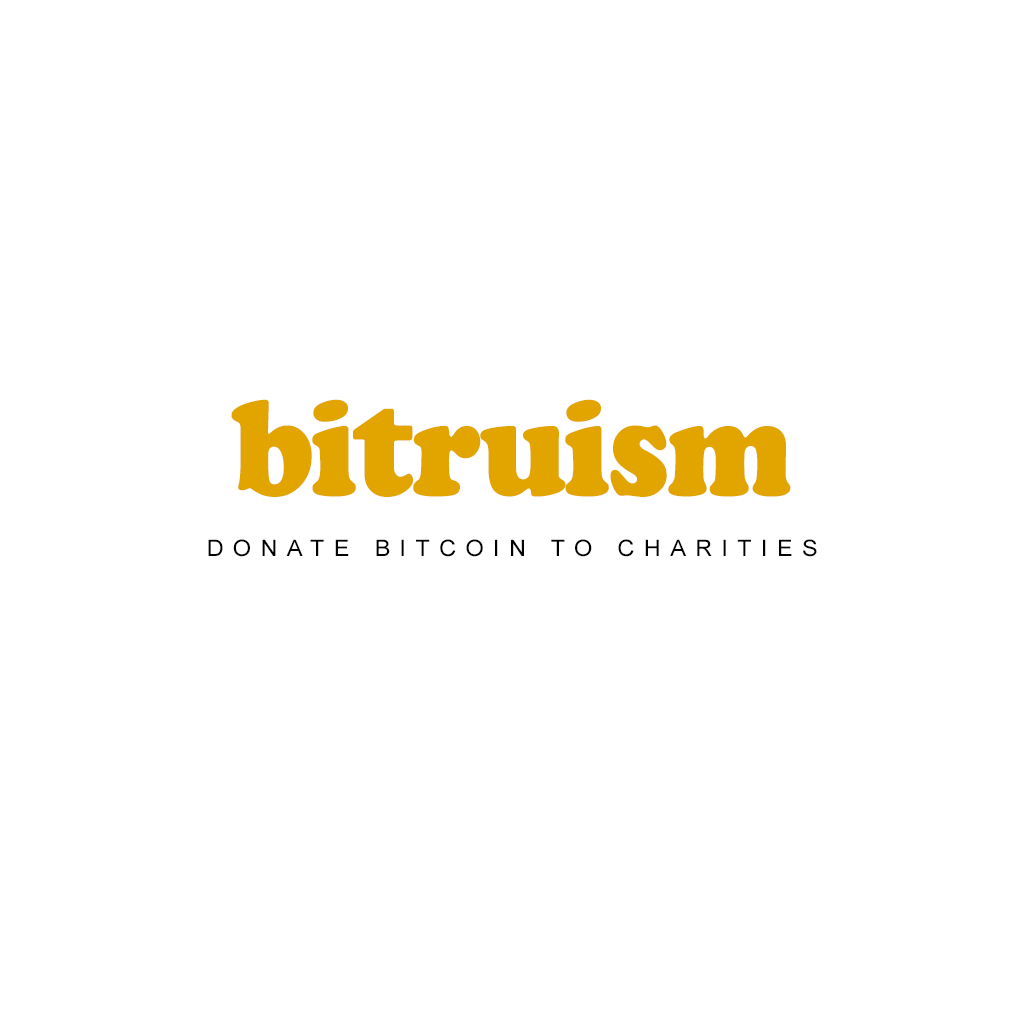
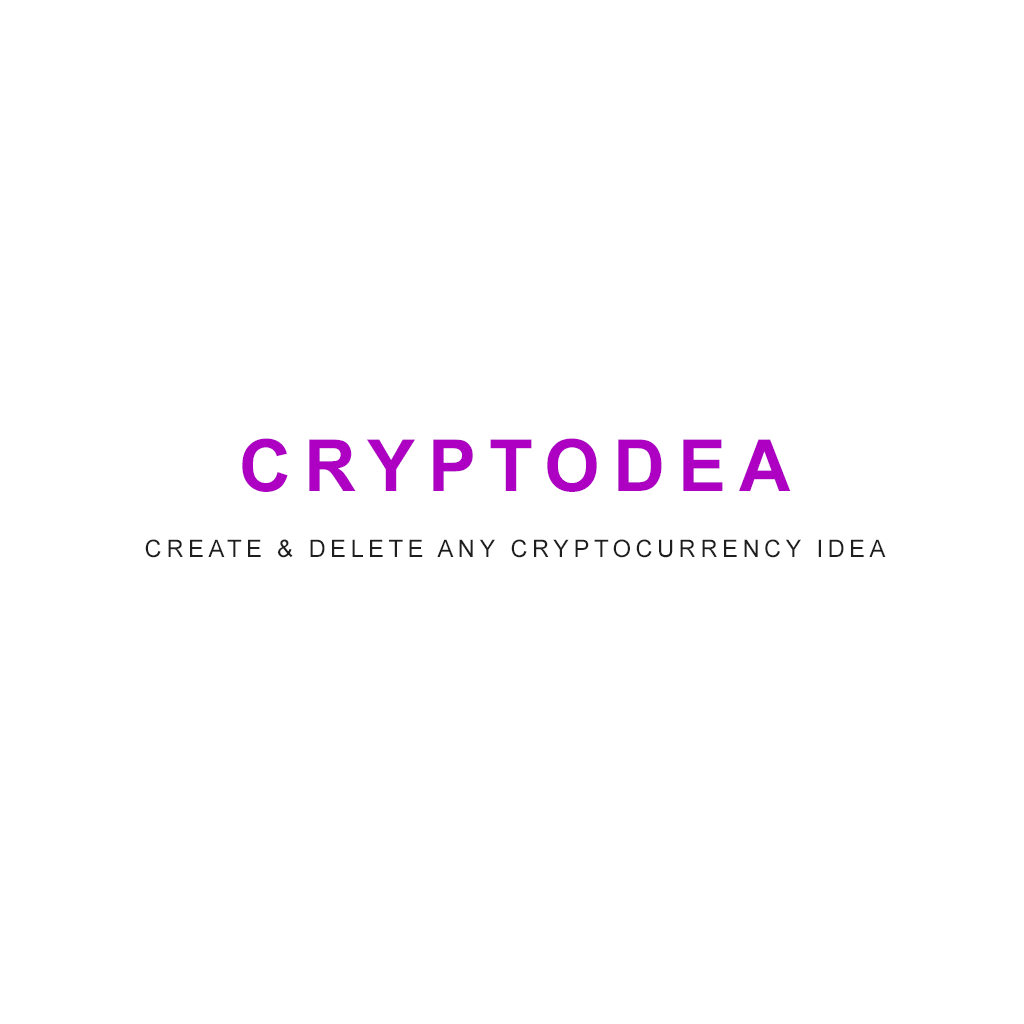
Done with my front-end portions

Changed region(s): [[0.2188, 0.375, 0.7812, 0.5], [0.1562, 0.5312, 0.8438, 0.5625]]

diff --git a/CryptodeaCode/src/main/resources/static/css/about.css b/CryptodeaCode/src/main/resources/static/css/about.css
@@ -1,30 +1,79 @@
-@font-face {
-  font-family: "Cooper Black";
-  src: url("/fonts/cooper-black.otf");
-}
 * {
-	vertical-align: baseline;
-	font-weight: inherit;
-    font-style: inherit;
-    font-family: Cooper Black, serif;
-	font-size: 100%;
-	outline: 0;
-    margin: 0 auto;
-	}
-	
-@media screen and (max-width: 700px) {
-  body {
-    -webkit-text-size-adjust: none;
-  }
-}
-
-@media screen and (max-width: 400px) {
-  body {
-    -webkit-text-size-adjust: none;
-  }
-}
-
-#wrapper {
+	  vertical-align: baseline;
+	  font-weight: inherit;
+	  font-style: inherit;
+	  font-family: Arial, serif;
+	  font-size: 100%;
+	  outline: 0;
 	  margin: 0 auto;
-	  margin-top: 50px;
-       }/*      CODE TO BE ADDED  	    */
+	  }
+	  
+  @media screen and (max-width: 700px) {
+	body {
+	  -webkit-text-size-adjust: none;
+	}
+  }
+  
+  @media screen and (max-width: 400px) {
+	body {
+	  -webkit-text-size-adjust: none;
+	}
+  }
+  
+  #wrapper {
+		margin: 0 auto;
+		width: 750px;
+		display: flex;
+		 }
+		 #left-container{
+		 	font-size: 13px;
+		 	color: gray;
+		 	height: auto;
+		 	text-decoration: none;
+		 	display: inline-block;
+		 	padding-right: 40px;
+		 	vertical-align:top;
+  			border-right: 2px solid #e853fc;
+		 }
+			 ul {
+			 	list-style-type: none;
+			 }
+			 #about {
+			 	margin-top: 160px;
+			 	padding-bottom: 60px;
+			 }
+		 #right-container{
+		 	color: gray;
+		 	display: inline-block;
+		 	vertical-align: top;
+		    margin-top: 70px;
+		 }
+		 	#logo{
+				 color: #ad00c2;
+				 text-align: center;
+				 letter-spacing: 6px;
+				 font-size: 30px;
+				 font-weight: 600;
+				 margin-left: 40px;
+				 text-decoration: none;
+			 }
+			 #logo:hover {
+				color: #e853fc;
+				transition-duration: .5s;
+			 }
+			 #right {
+			 	margin-top: 50px;
+			 	font-size: 17px;
+			 	text-decoration: none;
+			 }
+			 #team {
+			 	margin-top: 45px;
+			 }
+			 li {
+			 	margin-bottom: 50px;
+			 	line-height: 30px;
+			 	text-decoration: none;
+			 }
+			 p{
+			 	margin-bottom: -15px;
+			 }

diff --git a/CryptodeaCode/src/main/resources/static/css/index.css b/CryptodeaCode/src/main/resources/static/css/index.css
@@ -58,7 +58,7 @@
 			 margin-top: 10px;
 		 }
 		 #create:hover{
-			opacity: 0.4;
+			background-color: #e853fc;
 			transition-duration: .5s;
 			box-shadow: none;
 		   }
